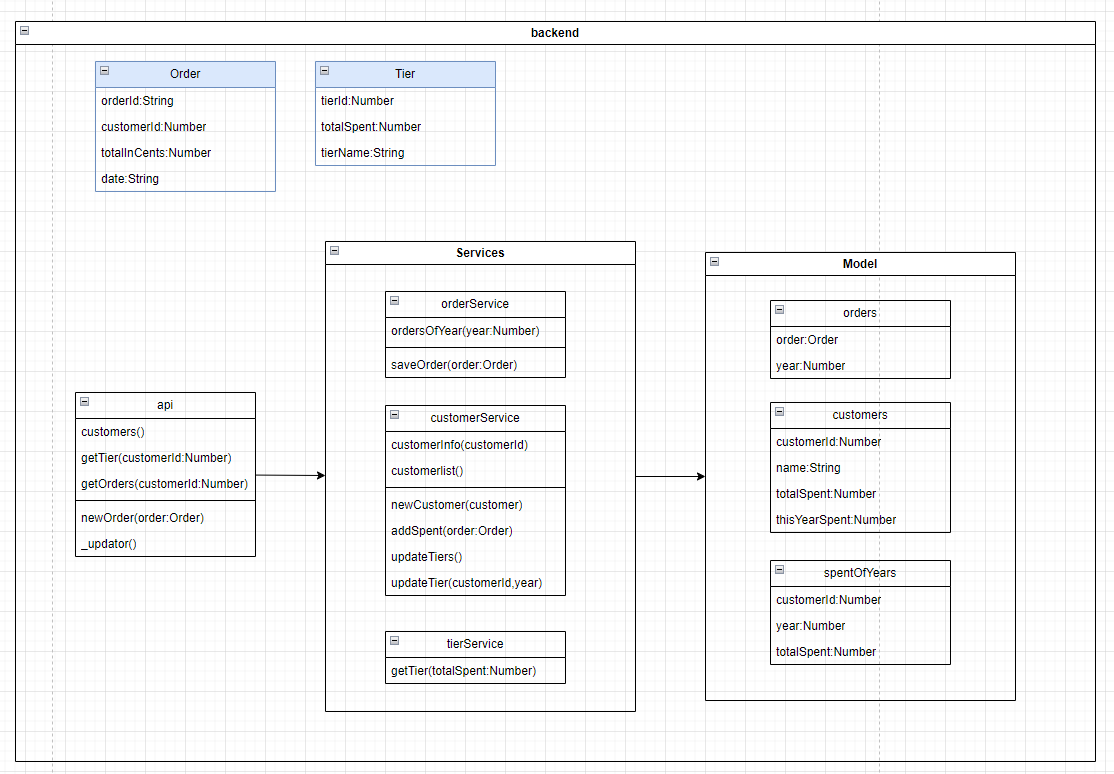
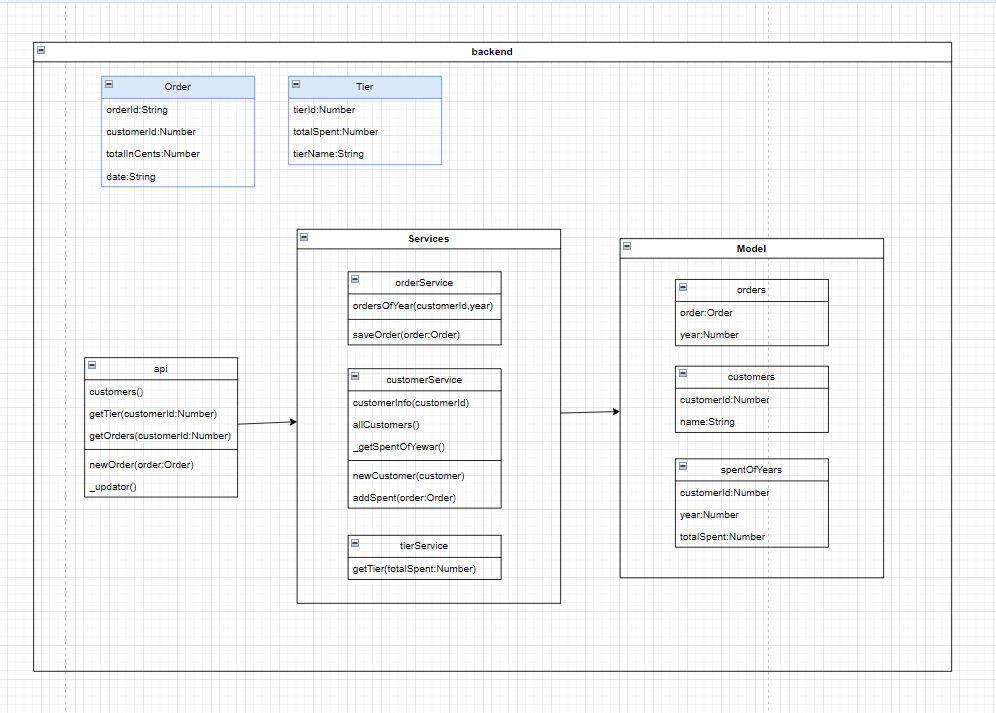
fix test issue and update customer service

diff --git a/src/services/customerService.ts b/src/services/customerService.ts
@@ -25,9 +25,10 @@ export const customerService = {
             spentOfYear = {
                 customerId: order.customerId,
                 year: order.year,
-                totalSpent: 0
+                totalSpent: order.totalInCents
             }
-            await dataAccess.spentOfYeardb.create(spentOfYear)
+            await dataAccess.spentOfYeardb.create(spentOfYear);
+            return;
         }
 
         // add spent amount to total amount per year
@@ -40,30 +41,6 @@ export const customerService = {
             },
             spentOfYear
         )
-
-        await customerService.updateTier(order.customerId);
-    },
-    /**
-     * update totalSpent amount for tier calculation
-     * @param {number} customerId 
-     */
-    updateTier: async (customerId: number) => {
-        const thisYear = getThisYear()
-        const lastyear = thisYear - 1;
-
-        var thisYearSpent: any = await dataAccess.spentOfYeardb.findOne({ customerId: customerId, year: thisYear });
-        if (!thisYearSpent) thisYearSpent = { totalSpent: 0 }
-        var lastYearSpent: any = await dataAccess.spentOfYeardb.findOne({ customerId: customerId, year: lastyear });
-        if (!lastYearSpent) lastYearSpent = { totalSpent: 0 }
-
-        const totalSpent = thisYearSpent.totalSpent + lastYearSpent.totalSpent;
-        await dataAccess.customerdB.update(
-            { customerId: customerId },
-            {
-                totalSpent: totalSpent,
-                thisYearSpent: thisYearSpent.totalSpent
-            }
-        )
     },
     /**
      * get customer info 
@@ -72,28 +49,14 @@ export const customerService = {
     getCustomerInfo: async (customerId: number): Promise<CustomerInfo> => {
         const customerData = await dataAccess.customerdB.findOne({ customerId: customerId })
         if (!customerData) throw new Error("Invalid customer Id");
-        return customerService.getTierInfo(customerData);
-    },
-    /**
-     * get customer info list
-     */
-    getCustomers: async (): Promise<CustomerInfo[]> => {
-        const customerDatas = await dataAccess.customerdB.find({})
-        const tierInfos = customerDatas.map(customerData => {
-            return customerService.getTierInfo(customerData);
-        })
-        return tierInfos
-    },
-    /**
-     * get tier info from customer data
-     * @param customerData 
-     * @returns {CustomerInfo} customer info with tier and downgrade info
-     */
-    getTierInfo: (customerData: Customer): CustomerInfo => {
-        const { currentTier, nextTier, isMaxTier } = tierService.getTier(customerData.totalSpent);
+        
         const thisYear = getThisYear()
         const lastyear = thisYear - 1;
         const nextyear = thisYear + 1;
+        
+        const thisYearSpentInCent = await customerService._getSpentOfyear(customerData,thisYear); 
+        const lastYearSpentInCent = await customerService._getSpentOfyear(customerData,lastyear); 
+        const { currentTier, nextTier, isMaxTier } = tierService.getTier(thisYearSpentInCent + lastYearSpentInCent);
 
         const nextYearTier = tierService.getTier(customerData.thisYearSpent);
         const isDowngraded = nextYearTier.currentTier.tierId != currentTier.tierId;
@@ -103,12 +66,31 @@ export const customerService = {
             customerName: customerData.name,
             tierName: currentTier.tierName,
             startDate: getStartDateOfYear(lastyear),
-            totalSpent: customerData.totalSpent,
-            amountForNextTier: isMaxTier ? 0 : nextTier.totalSpent - customerData.totalSpent,
+            totalSpent: thisYearSpentInCent + lastYearSpentInCent,
+            amountForNextTier: isMaxTier ? 0 : nextTier.totalSpent - thisYearSpentInCent + lastYearSpentInCent,
             nextYearTier: !isDowngraded ? null : nextYearTier.currentTier.tierName,
             endDate: getStartDateOfYear(nextyear),
-            amountForKeepTier: !isDowngraded ? 0 : currentTier.totalSpent - customerData.thisYearSpent
+            amountForKeepTier: !isDowngraded ? 0 : currentTier.totalSpent - thisYearSpentInCent
         }
-
-    }
+    },
+    /**
+     * get customer info list
+     */
+    getAllCustomers: async (): Promise<CustomerInfo[]> => {
+        const customerDatas = await dataAccess.customerdB.find({})
+        const tierInfos = [];
+        for (let i = 0; i < customerDatas.length; i++) {
+            tierInfos.push(await customerService.getCustomerInfo(customerDatas[i].customerId))
+        }
+        return tierInfos
+    },
+    /**
+     * update totalSpent amount for tier calculation
+     * @param customerData 
+     */
+    _getSpentOfyear: async (customerData: Customer, year: Number) => {
+        var thisYearSpent: any = await dataAccess.spentOfYeardb.findOne({ customerId: customerData.customerId, year: year });
+        if (!thisYearSpent) thisYearSpent = { totalSpent: 0 }
+        return thisYearSpent.totalSpent
+    },
 }

diff --git a/test/main.test.ts b/test/main.test.ts
@@ -2,7 +2,7 @@
 process.env.NODE_ENV = 'test';
 process.env.DATABASE = 'mongodb://localhost:27017/tier-service-test';
 
-import chai from 'chai';
+import chai, { expect } from 'chai';
 import chaiHttp from 'chai-http';
 import mongoose from "mongoose";
 import server from '../src/main';
@@ -19,25 +19,87 @@ describe('order test', () => {
     });
 
     it('get customers test', async () => {
+        const expectedCustomers = [
+            {
+                customerId: 1,
+                customerName: 'a',
+                tierName: 'Bronze',
+                startDate: 'Sun, 01 Jan 2023 00:00:00 GMT',
+                totalSpent: 1000,
+                amountForNextTier: 11000,
+                nextYearTier: null,
+                endDate: 'Wed, 01 Jan 2025 00:00:00 GMT',
+                amountForKeepTier: 0
+            },
+            {
+                customerId: 2,
+                customerName: 'b',
+                tierName: 'Bronze',
+                startDate: 'Sun, 01 Jan 2023 00:00:00 GMT',
+                totalSpent: 3000,
+                amountForNextTier: 13000,
+                nextYearTier: null,
+                endDate: 'Wed, 01 Jan 2025 00:00:00 GMT',
+                amountForKeepTier: 0
+            },
+            {
+                customerId: 3,
+                customerName: 'c',
+                tierName: 'Gold',
+                startDate: 'Sun, 01 Jan 2023 00:00:00 GMT',
+                totalSpent: 100000,
+                amountForNextTier: 0,
+                nextYearTier: 'Bronze',
+                endDate: 'Wed, 01 Jan 2025 00:00:00 GMT',
+                amountForKeepTier: 50000
+            }
+        ]
         var res = await chai.request(server)
             .get('/api/customers').send();
-        console.log("customers", res.body);
+        expect(res.body).to.deep.equal(expectedCustomers);
     });
 
     it('get tier test', async () => {
+        const expectedTier = {
+            customerId: 2,
+            customerName: 'b',
+            tierName: 'Bronze',
+            startDate: 'Sun, 01 Jan 2023 00:00:00 GMT',
+            totalSpent: 3000,
+            amountForNextTier: 13000,
+            nextYearTier: null,
+            endDate: 'Wed, 01 Jan 2025 00:00:00 GMT',
+            amountForKeepTier: 0
+        }
         var res = await chai.request(server)
             .get('/api/tier').send({ customerId: 2 });
-        console.log("tier", res.body);
+        expect(res.body).to.deep.equal(expectedTier);
     });
 
     it('get orders test', async () => {
+        const expectedOrders = [
+            {
+                orderId: 't12',
+                customerId: 2,
+                totalInCents: 1000,
+                date: 'Fri Nov 17 2023 08:41:51 GMT+0300',
+                year: 2023
+            },
+            {
+                orderId: 't13',
+                customerId: 2,
+                totalInCents: 2000,
+                date: 'Fri Nov 17 2023 08:41:51 GMT+0300',
+                year: 2023
+            }
+        ]
         var res = await chai.request(server)
             .get('/api/orders').send({
                 customerId: 2,
                 page_number: 1,
                 page_size: 5
             });
-        console.log("orders", res.body);
+        expect(res.body).to.deep.equal(expectedOrders);
     });
 
     it('remove database', async () => {

diff --git a/src/controllers/index.ts b/src/controllers/index.ts
@@ -48,12 +48,12 @@ export default {
 			return res.status(400).send({ status: "internal error" });
 		}
 	},
-	getCustomers: async (req: Request, res: Response) => {
+	getAllCustomers: async (req: Request, res: Response) => {
 		try {
-			const tierInfos: CustomerInfo[] = await service.customerService.getCustomers();
+			const tierInfos: CustomerInfo[] = await service.customerService.getAllCustomers();
 			return res.status(200).json(tierInfos);
 		} catch (err) {
-			console.log("getCustomers", err);
+			console.log("getAllCustomers", err);
 			return res.status(400).send({ status: "internal error" });
 		}
 	},
@@ -88,22 +88,4 @@ export default {
 			return res.status(400).send({ status: "internal error" });
 		}
 	}
-}
-
-const tierUpdator = async () => {
-	try {
-		// console.log("tierUpdate")
-		const tierInfos: CustomerInfo[] = await service.customerService.getCustomers();
-		tierInfos.map(async (customer) => {
-			await service.customerService.updateTier(customer.customerId);
-		})
-	} catch (err: any) {
-		console.log("tierUpdator", err.message);
-	}
-}
-
-export const updator = () => {
-	cron.schedule('*/10 * * * * *', () => {
-		tierUpdator()
-	});
 }

diff --git a/src/Routes.ts b/src/Routes.ts
@@ -1,12 +1,11 @@
 import express from "express";
-import controllers, { updator } from "./controllers";
+import controllers from "./controllers";
 
 // run update service
-updator();
 
 const Routes = (router: express.Router) => {
 	router.post("/newOrder", controllers.newOrder);
-	router.get("/customers", controllers.getCustomers);
+	router.get("/customers", controllers.getAllCustomers);
 	router.get("/tier", controllers.getTier);
 	router.get("/orders", controllers.getOrders);
 };

diff --git a/src/models/customer.ts b/src/models/customer.ts
@@ -3,15 +3,7 @@ const Schema = mongoose.Schema;
 
 const customerSchema = new Schema({
 	customerId: Number,
-	name: String,
-	totalSpent: {
-		type: Number,
-		default: 0
-	},
-	thisYearSpent: {
-		type: Number,
-		default: 0
-	}
+	name: String
 });
 
 const spentOfYearSchema = new Schema({

diff --git a/src/models/order.ts b/src/models/order.ts
@@ -3,7 +3,10 @@ const Schema = mongoose.Schema;
 
 const OrderSchema = new Schema({
 	orderId: String,
-	customerId: Number,
+	customerId: {
+		type: Number,
+		index: true
+	},
 	customerName: String,
 	totalInCents: Number,
 	date: String,
